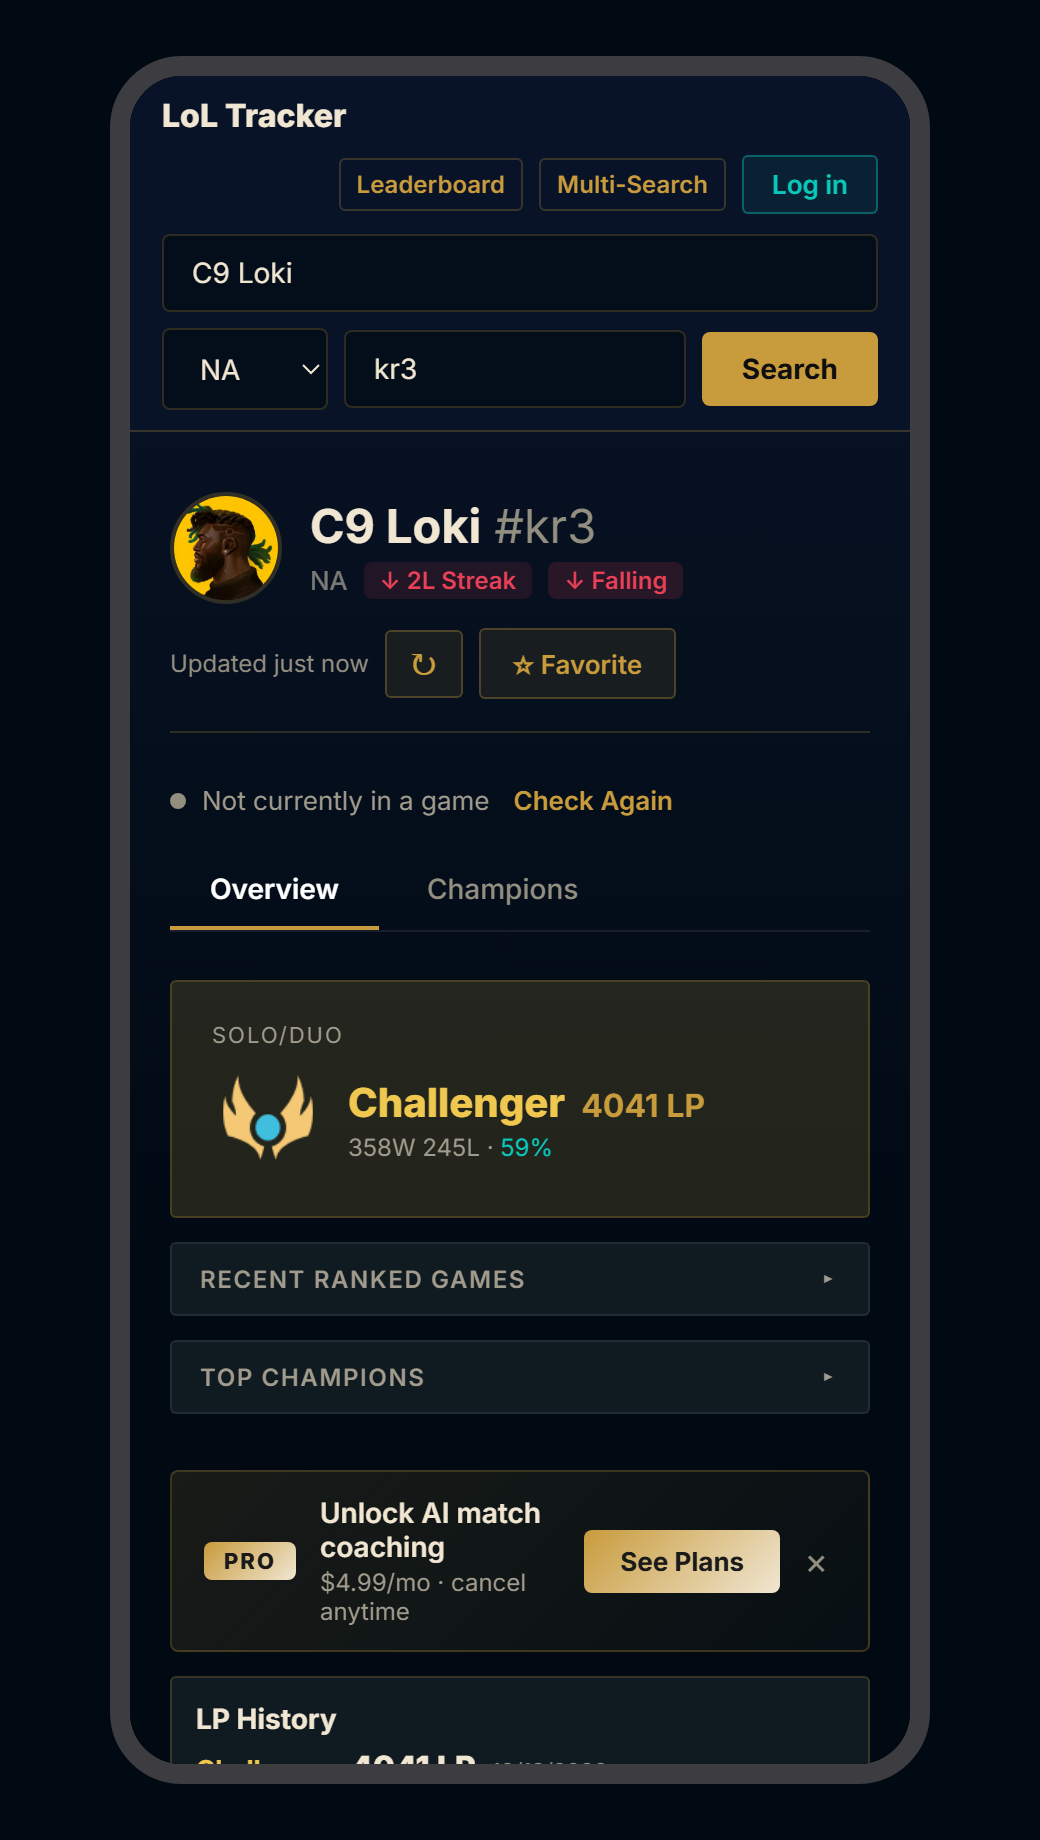
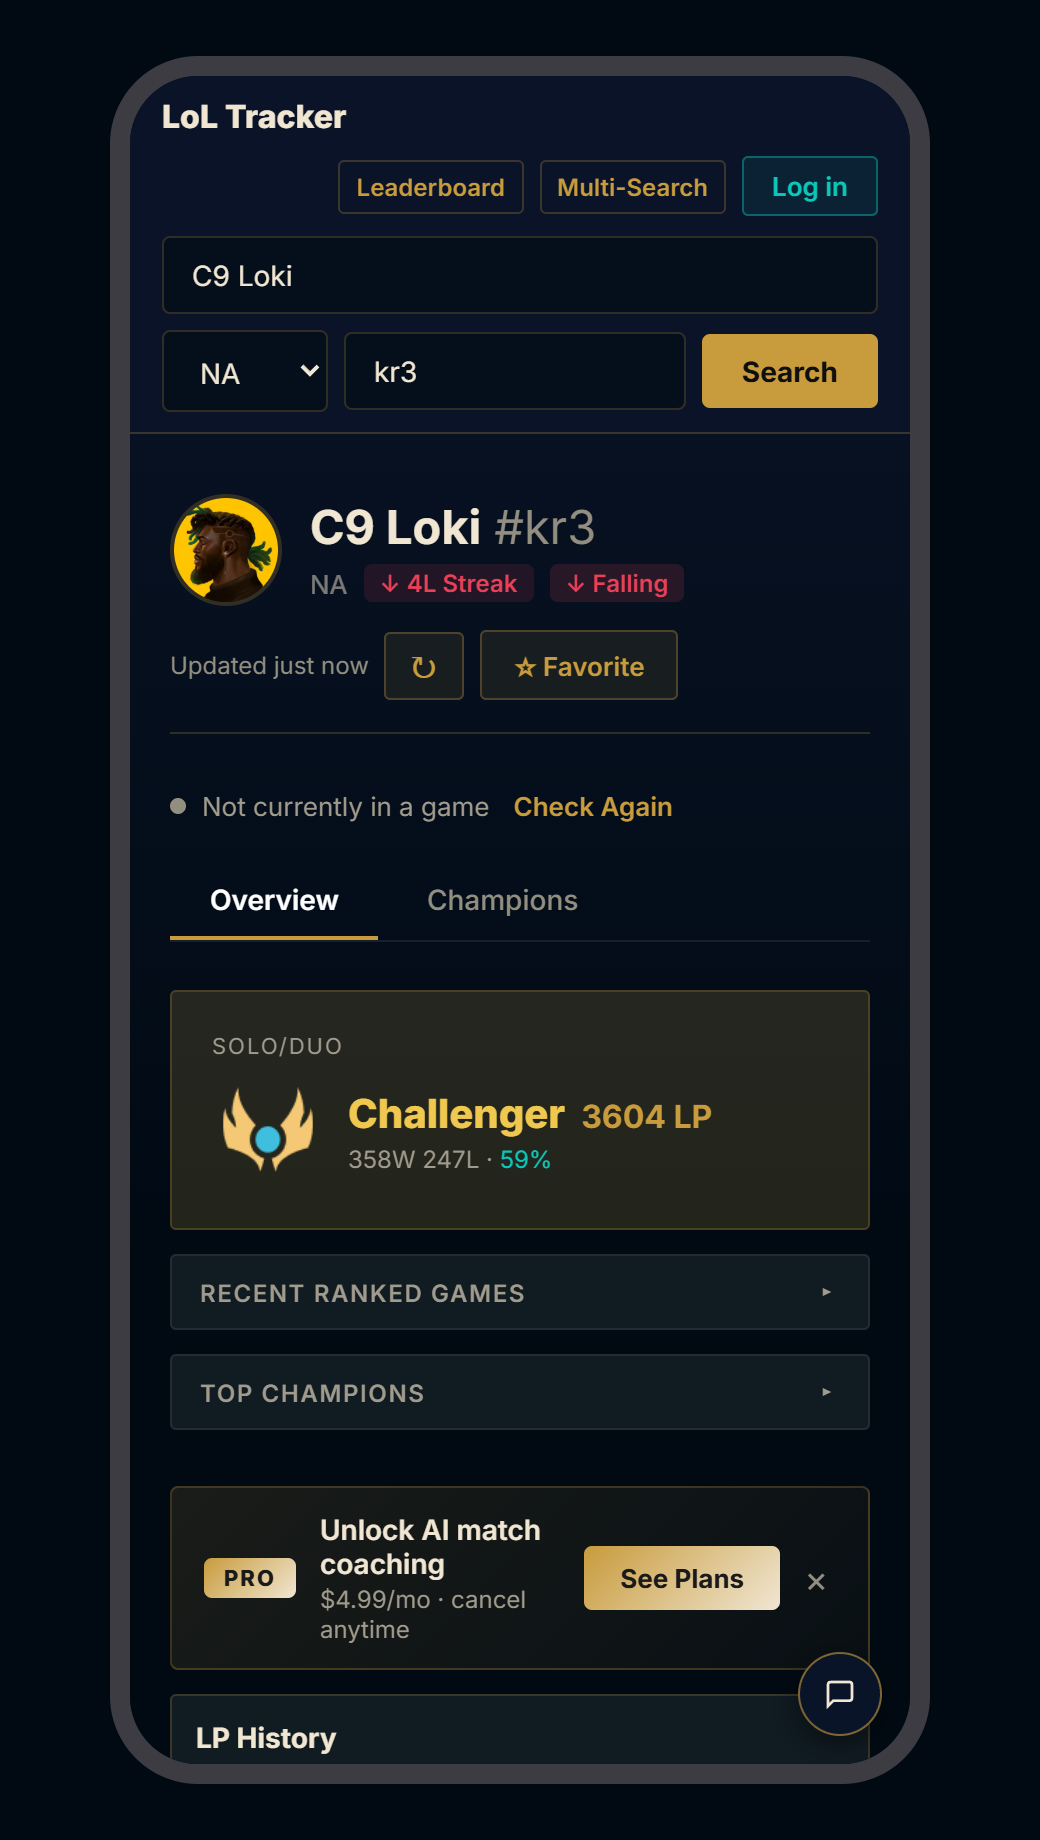
README: feedback screenshot, retake match history, LP chart and mobile shots
The match history and LP chart shots are now the same 2442x1248 as the
rest, so the table rows line up. The mobile shot shows the Feedback
button, which didn't exist when it was taken.

diff --git a/README.md b/README.md
@@ -72,6 +72,12 @@ A full-stack League of Legends stats site with AI match coaching: search any pla
     <td><img src="screenshots/champions.png" alt="Champions" width="480" /></td>
     <td align="center"><img src="screenshots/mobile.png" alt="Mobile" width="200" /></td>
   </tr>
+  <tr>
+    <td align="center" colspan="2"><b>Feedback</b></td>
+  </tr>
+  <tr>
+    <td align="center" colspan="2"><img src="screenshots/feedback.png" alt="Feedback form, opened from the button in the corner of every page" width="480" /></td>
+  </tr>
 </table>
 
 > The demo runs on a single AWS EC2 instance and may be unavailable if the instance is stopped.
